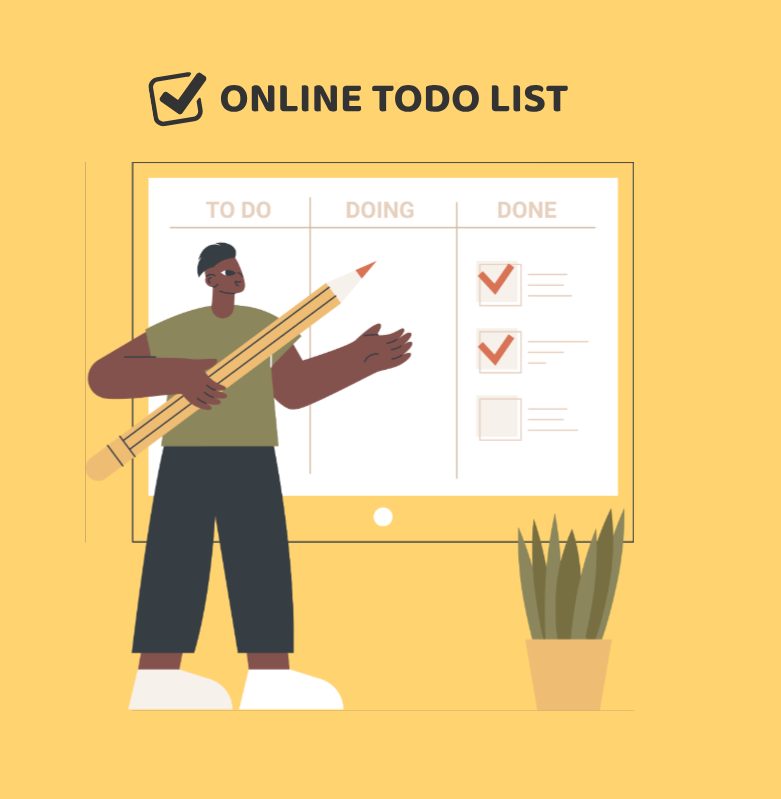
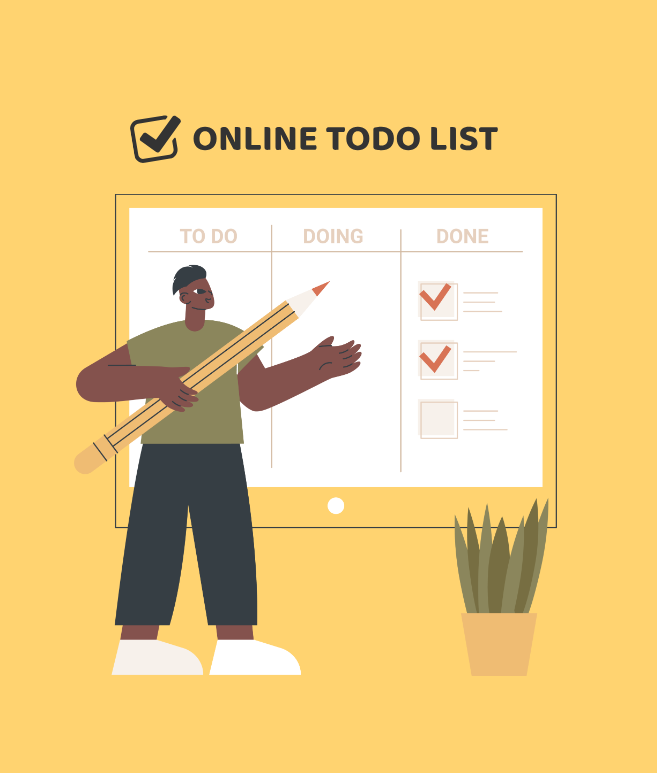
fix rwd container conflict

Changed region(s): [[0.0913, 0.0931, 0.8524, 0.9004]]

diff --git a/portfolio.html b/portfolio.html
@@ -14,7 +14,7 @@
 </head>
 <body>
     <section class="navbar fixed top-0 w-full z-20">
-      <section class="frame dark-theme setting container">
+      <section class="frame dark-theme setting container-fluid">
         <section class="flex justify-between p-6 px-4">
           <section class="order-2 md:order-1 flex justify-between items-center">
             <a href="" class=""
@@ -82,7 +82,7 @@
       </section>
     </section>
 
-    <div class="container text-center  mx-auto z-10 mt-40 p-8">
+    <div class="container-fluid text-center  mx-auto z-10 mt-40 p-8">
       <h1 class="text-3xl my-8 relative font-bold">作品集</h1>
         <section class="text-center p-4">
           <h2 class="text-center text-2xl my-10  py-4  dark ">切版作品</h2>
@@ -99,7 +99,7 @@
     </div>
 
 
-       <section class="container mb-6 ">
+       <section class="container-fluid mb-6 ">
             <div class="mb-3 md:mb-6 flex items-center justify-between px-4">
               <div class="flex items-center gap-2">
                 <div class="h-[0.5px] w-[150px] bg-primary"></div></div></div>
@@ -175,7 +175,7 @@
         </section>
 
 
-          <div class="container text-center  mx-auto  z-10 p-8 ">
+          <div class="container-fluid text-center  mx-auto  z-10 p-8 ">
           <section class="text-center p-4">
             <h2 class="text-center text-2xl my-10  py-4  dark ">六角學院 - 火箭隊培訓營</h2>
             <p class="text-left text-lg">            
@@ -247,7 +247,7 @@
           </div>
 
 
-                    <div class="container text-center  mx-auto  z-10 p-8 ">
+                    <div class="container-fluid text-center  mx-auto  z-10 p-8 ">
           <section class="text-center p-4">
             <h2 class="text-center text-2xl my-10  py-4  dark ">專案成就</h2>
           </section>

diff --git a/index.html b/index.html
@@ -11,7 +11,7 @@
 </head>
 <body>
     <section class="navbar fixed top-0 w-full z-20">
-      <section class="frame dark-theme setting container">
+      <section class="frame dark-theme setting container-fluid">
         <section class="flex justify-between p-6 px-4">
           <section class="order-2 md:order-1 flex justify-between items-center">
             <a href="" class=""
@@ -79,7 +79,7 @@
       </section>
     </section>
 
-   <div class="container text-center  mx-auto z-10 mt-40 p-8 ">
+   <div class="container-fluid text-center  mx-auto z-10 mt-40 p-8 ">
        <h1 class="text-3xl my-8 relative font-bold">履歷</h1>
         <section class="text-center p-4">
           <h2 class="text-center text-2xl my-10  py-4  dark mx-auto">簡介</h2>

diff --git a/src/all.css b/src/all.css
@@ -1,5 +1,5 @@
 
-.container{
+.container-fluid{
     padding: 0px 15px;
 }
 .dark-theme {
@@ -106,7 +106,7 @@ h1::after {
 }
 
 @media screen and (min-width: 768px) {
-    .container{
+    .container-fluid{
         padding: 0px 200px;
     }
 }
